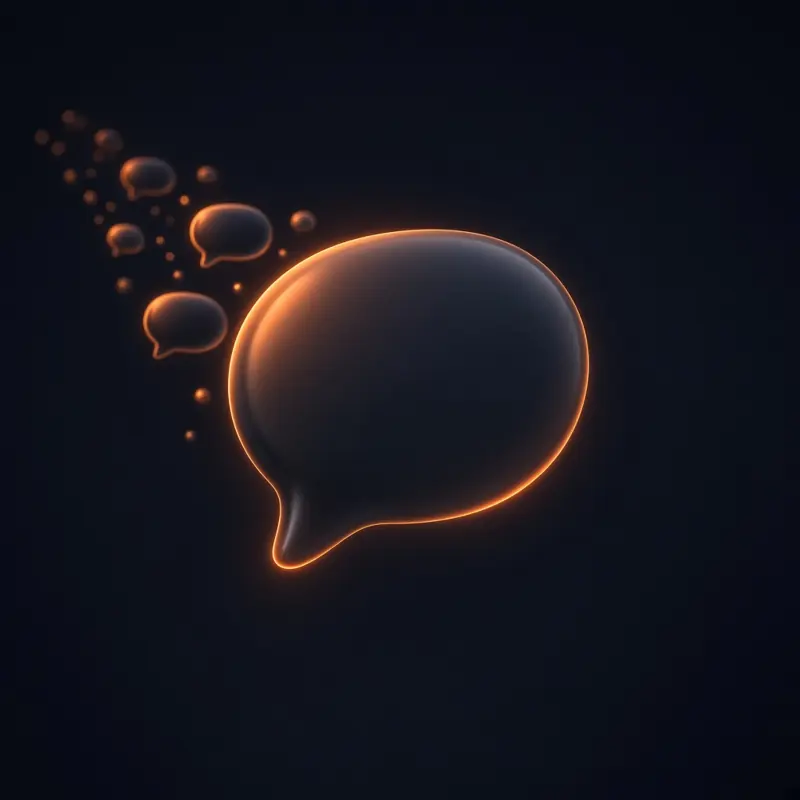
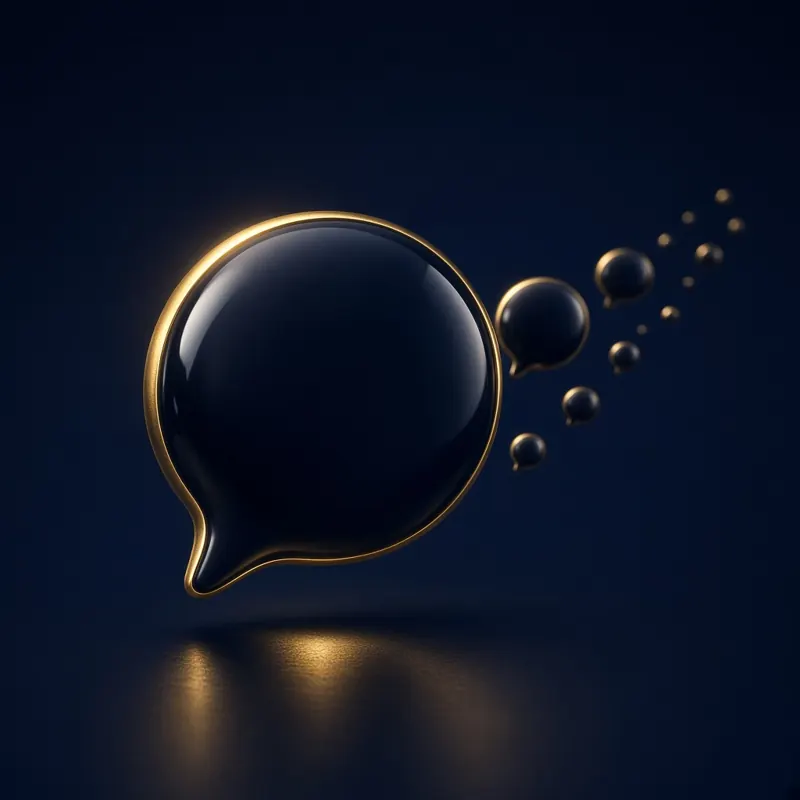
Recolor the scenario cards to the site gold and navy palette.

diff --git a/server/pages.ts b/server/pages.ts
@@ -392,9 +392,9 @@ function paidHomeCards(base: string) {
 
 function productPresent(base: string) {
   const objects = [
-    ["card-phone.webp", "گوشی تیره با موج نارنجی قطعشده روی صفحهٔ تماس", "فروش تلفنی", "تماسهایی که انرژی زیادی میگیرند، اما بدون ثبت سفارش یا زمان پیگیری مشخص تمام میشوند."],
-    ["card-objection.webp", "حباب گفتگو پشت یک سپر شفاف با لبهٔ نارنجی", "مدیریت اعتراضها", "لحظهای که مشتری روی قیمت یا محصول ایراد میگذارد و کارشناس فروش جوابی برای کنترل مکالمه ندارد."],
-    ["card-meeting.webp", "میز تیره با پوشه و نشان نارنجی", "جلسات حضوری", "جلسات طولانی و ارائههای فنی خستهکننده که بدون تعهد خرید و قرارداد به پایان میرسند."],
+    ["card-phone.webp", "گوشی تیره با موج طلایی روی صفحهٔ تماس", "فروش تلفنی", "تماسهایی که انرژی زیادی میگیرند، اما بدون ثبت سفارش یا زمان پیگیری مشخص تمام میشوند."],
+    ["card-objection.webp", "حباب گفتگو پشت یک سپر شفاف با لبهٔ طلایی", "مدیریت اعتراضها", "لحظهای که مشتری روی قیمت یا محصول ایراد میگذارد و کارشناس فروش جوابی برای کنترل مکالمه ندارد."],
+    ["card-meeting.webp", "میز تیره با پوشه و نشان طلایی", "جلسات حضوری", "جلسات طولانی و ارائههای فنی خستهکننده که بدون تعهد خرید و قرارداد به پایان میرسند."],
     ["card-chat.webp", "حباب گفتگو با رد پیامهای کمرنگ", "فروش در پیامرسانها", "چتها و دایرکتهایی که فقط تا مرحله استعلام قیمت جلو میآیند و بعد از آن بیپاسخ رها میشوند."],
   ] as const;
   const tiles = objects.map(([file, alt, title, line]) => `<figure class="bg-[#070B18] p-3 sm:p-4">
